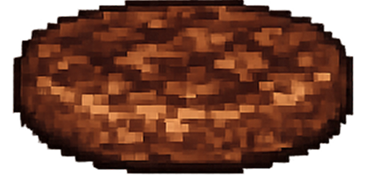
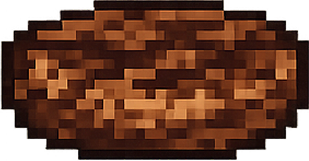
햄버거 재료 6가지로 추가 수정

diff --git a/src/components/game/InputPanel.tsx b/src/components/game/InputPanel.tsx
@@ -11,12 +11,14 @@ interface InputPanelProps {
 }
 
 const KEY_HINTS: Record<string, string> = {
-  patty: "↑ W",
-  cheese: "↓ S",
-  veggie: "← A",
-  sauce: "→ D",
+  patty: "W",
+  cheese: "S",
+  veggie: "A",
+  sauce: "D",
+  onion: "Q",
+  tomato: "E",
   cancel: "ESC",
-  submit: "SPC",
+  submit: "SPACE",
 };
 
 const INGREDIENT_IMAGES: Record<string, string> = {
@@ -24,6 +26,8 @@ const INGREDIENT_IMAGES: Record<string, string> = {
   cheese: "/ingredient/cheese.png",
   veggie: "/ingredient/vegetable.png",
   sauce: "/ingredient/sauce.png",
+  onion: "/ingredient/onion.png",
+  tomato: "/ingredient/tomato.png",
   submit: "/ingredient/bun_top.png",
 };
 
@@ -143,6 +147,22 @@ export default function InputPanel({ allowedActions }: InputPanelProps) {
             disabled={!isAllowed("patty")}
             showKey={isDesktop}
             onClick={() => handleAction("patty")}
+          />
+          <InputBtn
+            action="onion"
+            label="양파"
+            className="input-btn--onion"
+            disabled={!isAllowed("onion")}
+            showKey={isDesktop}
+            onClick={() => handleAction("onion")}
+          />
+          <InputBtn
+            action="tomato"
+            label="토마토"
+            className="input-btn--tomato"
+            disabled={!isAllowed("tomato")}
+            showKey={isDesktop}
+            onClick={() => handleAction("tomato")}
           />
         </div>
 

diff --git a/src/styles/components/_ingame.scss b/src/styles/components/_ingame.scss
@@ -87,21 +87,21 @@
     // grid-template-columns: m.vw(76) 1fr m.vw(76);
     grid-template-columns: 1fr m.vw(90);
     gap: m.vw(6);
-    height: m.vw(130);
+    height: m.vw(195);
   }
   @include m.desktop {
     // grid-template-columns: 86px 1fr 86px;
     grid-template-columns: 1fr 160px;
     gap: 6px;
-    height: 130px;
+    height: 195px;
   }
 }
 
-// 재료 2×2 그리드 (ingame__controls 내부)
+// 재료 2×3 그리드 (ingame__controls 내부)
 .ingame__grid {
   display: grid;
   grid-template-columns: 1fr 1fr;
-  grid-template-rows: 1fr 1fr;
+  grid-template-rows: 1fr 1fr 1fr;
   @include m.mobile {
     gap: m.vw(6);
   }
@@ -222,6 +222,28 @@
       $corner-size: 1,
       $border-size: 3px,
       $background-color: #c0392b,
+      $border-color: v.$color-border,
+      $border-inset: true,
+      $border-inset-sides: "all"
+    );
+    color: #fde8e8;
+  }
+  &--onion {
+    @include pb.pixel-box(
+      $corner-size: 1,
+      $border-size: 3px,
+      $background-color: #7b4f9a,
+      $border-color: v.$color-border,
+      $border-inset: true,
+      $border-inset-sides: "all"
+    );
+    color: #f0d8ff;
+  }
+  &--tomato {
+    @include pb.pixel-box(
+      $corner-size: 1,
+      $border-size: 3px,
+      $background-color: #e74c3c,
       $border-color: v.$color-border,
       $border-inset: true,
       $border-inset-sides: "all"

diff --git a/src/lib/constants.ts b/src/lib/constants.ts
@@ -68,22 +68,29 @@ export const DIFFICULTY_TIERS: { minOrders: number; tier: DifficultyTier }[] = [
 ];
 
 // ─── 재료 ─────────────────────────────────────────────
-export const INGREDIENTS: Ingredient[] = ["patty", "cheese", "veggie", "sauce"];
+export const INGREDIENTS: Ingredient[] = [
+  "patty",
+  "cheese",
+  "veggie",
+  "sauce",
+  "onion",
+  "tomato",
+];
 
 // ─── 키 맵핑 ──────────────────────────────────────────
 export const KEY_MAP: Record<string, Ingredient | "cancel" | "submit"> = {
-  ArrowUp: "patty",
   w: "patty",
   W: "patty",
-  ArrowDown: "cheese",
   s: "cheese",
   S: "cheese",
-  ArrowLeft: "veggie",
   a: "veggie",
   A: "veggie",
-  ArrowRight: "sauce",
   d: "sauce",
   D: "sauce",
+  q: "onion",
+  Q: "onion",
+  e: "tomato",
+  E: "tomato",
   Escape: "cancel",
   Backspace: "cancel",
   Enter: "submit",
@@ -96,6 +103,8 @@ export const ALL_COOP_ACTIONS = [
   "cheese",
   "veggie",
   "sauce",
+  "onion",
+  "tomato",
   "cancel",
   "submit",
 ] as const;

diff --git a/src/lib/gameLogic.ts b/src/lib/gameLogic.ts
@@ -96,7 +96,7 @@ export function generateDefaultNickname(): string {
 
 // ─── 코업 키 배분 ─────────────────────────────────
 export function assignCoopKeys(): [string[], string[]] {
-  const actions = ['patty', 'cheese', 'veggie', 'sauce', 'cancel', 'submit'];
+  const actions = ['patty', 'cheese', 'veggie', 'sauce', 'onion', 'tomato', 'cancel', 'submit'];
   const shuffled = [...actions].sort(() => Math.random() - 0.5);
   return [shuffled.slice(0, 3), shuffled.slice(3)];
 }

diff --git a/src/components/game/BurgerStack.tsx b/src/components/game/BurgerStack.tsx
@@ -10,6 +10,8 @@ const INGREDIENT_IMAGES: Record<Ingredient, string> = {
   cheese: '/ingredient/cheese.png',
   veggie: '/ingredient/vegetable.png',
   sauce:  '/ingredient/sauce.png',
+  onion:  '/ingredient/onion.png',
+  tomato: '/ingredient/tomato.png',
 };
 
 interface BurgerStackProps {

diff --git a/src/types/index.ts b/src/types/index.ts
@@ -1,4 +1,4 @@
-export type Ingredient = 'patty' | 'cheese' | 'veggie' | 'sauce';
+export type Ingredient = 'patty' | 'cheese' | 'veggie' | 'sauce' | 'onion' | 'tomato';
 export type GameMode = 'single' | 'coop' | 'versus';
 export type GameStatus = 'idle' | 'playing' | 'gameover';
 

diff --git a/src/components/game/OrderCard.tsx b/src/components/game/OrderCard.tsx
@@ -8,6 +8,8 @@ const INGREDIENT_LABELS: Record<Ingredient, string> = {
   cheese: "🟨 치즈",
   veggie: "🟩 야채",
   sauce: "🟥 소스",
+  onion: "🟣 양파",
+  tomato: "🍅 토마토",
 };
 
 interface OrderCardProps {

diff --git a/src/styles/components/_burger.scss b/src/styles/components/_burger.scss
@@ -83,6 +83,12 @@
   &.ingredient-layer--patty {
     margin-bottom: -32%;
   }
+  &.ingredient-layer--onion {
+    margin-bottom: -32%;
+  }
+  &.ingredient-layer--tomato {
+    margin-bottom: -32%;
+  }
 
   img {
     width: 100%;
